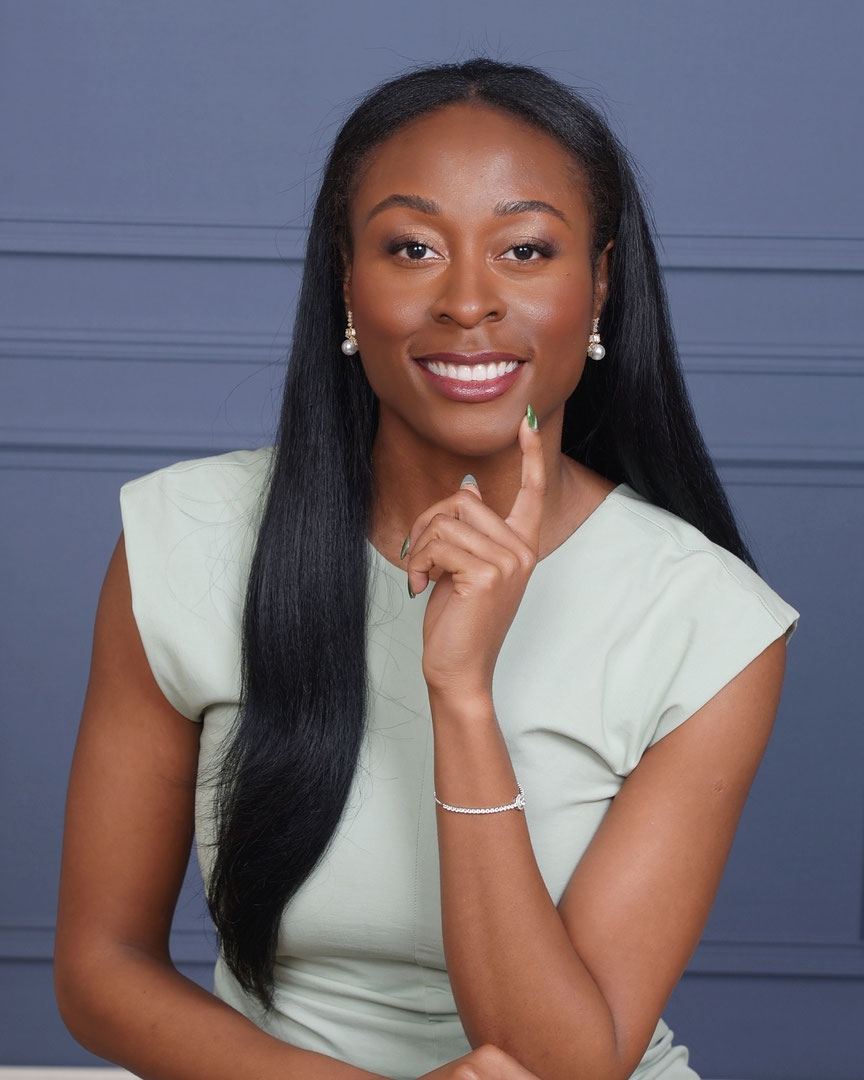
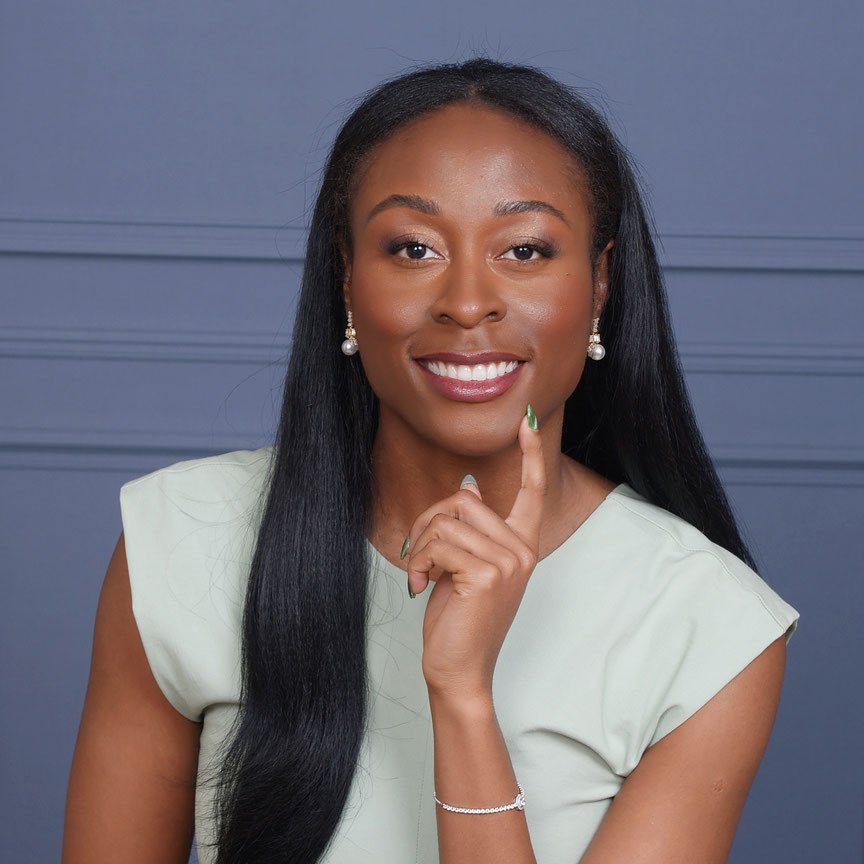
Fix images (#419)
* fix disabled filename

* fix images

* update speaker images

* fix font paths

* fix keynote page

diff --git a/2025/src/assets/scss/base/_font.scss b/2025/src/assets/scss/base/_font.scss
@@ -5,60 +5,60 @@
 @use 'breakpoint' as *;
 
 @font-face {
-  font-family: 'Open Sans';
+  font-style: normal;
+  font-weight: bold;
   src:
     local('Open Sans ExtraBold'),
     local('OpenSans-ExtraBold'),
-    url('/fonts/OpenSans-ExtraBold.woff2') format('woff2'),
-    url('/fonts/OpenSans-ExtraBold.woff') format('woff');
-  font-weight: bold;
-  font-style: normal;
+    url('/2025/fonts/OpenSans-ExtraBold.woff2') format('woff2'),
+    url('/2025/fonts/OpenSans-ExtraBold.woff') format('woff');
+  font-family: 'Open Sans';
   font-display: swap;
 }
 
 @font-face {
-  font-family: 'Open Sans';
+  font-style: normal;
+  font-weight: bold;
   src:
     local('Open Sans Bold'),
     local('OpenSans-Bold'),
-    url('/fonts/OpenSans-Bold.woff2') format('woff2'),
-    url('/fonts/OpenSans-Bold.woff') format('woff');
-  font-weight: bold;
-  font-style: normal;
+    url('/2025/fonts/OpenSans-Bold.woff2') format('woff2'),
+    url('/2025/fonts/OpenSans-Bold.woff') format('woff');
+  font-family: 'Open Sans';
   font-display: swap;
 }
 
 @font-face {
-  font-family: 'Open Sans';
+  font-style: italic;
+  font-weight: normal;
   src:
     local('Open Sans Italic'),
     local('OpenSans-Italic'),
-    url('/fonts/OpenSans-Italic.woff2') format('woff2'),
-    url('/fonts/OpenSans-Italic.woff') format('woff');
-  font-weight: normal;
-  font-style: italic;
+    url('/2025/fonts/OpenSans-Italic.woff2') format('woff2'),
+    url('/2025/fonts/OpenSans-Italic.woff') format('woff');
+  font-family: 'Open Sans';
   font-display: swap;
 }
 
 @font-face {
-  font-family: 'Open Sans';
+  font-style: normal;
+  font-weight: normal;
   src:
     local('Open Sans Regular'),
     local('OpenSans-Regular'),
-    url('/fonts/OpenSans-Regular.woff2') format('woff2'),
-    url('/fonts/OpenSans-Regular.woff') format('woff');
-  font-weight: normal;
-  font-style: normal;
+    url('/2025/fonts/OpenSans-Regular.woff2') format('woff2'),
+    url('/2025/fonts/OpenSans-Regular.woff') format('woff');
+  font-family: 'Open Sans';
   font-display: swap;
 }
 
 body {
-  font-family: var(--font-family-default);
-  text-shadow: rgba(0, 0, 0, 0.01) 0 0 1px;
-  text-rendering: optimizeLegibility;
-  font-synthesis: none;
   font-size: 1rem;
   line-height: 1.5rem;
+  font-family: var(--font-family-default);
+  font-synthesis: none;
+  text-rendering: optimizeLegibility;
+  text-shadow: rgba(0, 0, 0, 0.01) 0 0 1px;
   -webkit-text-size-adjust: 100%;
   -moz-osx-font-smoothing: grayscale;
   -webkit-font-smoothing: antialiased;

diff --git a/scripts/pretalx.py b/scripts/pretalx.py
@@ -248,9 +248,9 @@ class DataProcessor:
         click.echo("Writing talk data JSON...", err=True)
         self._write_json(talk_data, "talks.json", self.json_dir)
 
-        click.echo("Redirects:", err=True)
-        for redirect in redirects:
-            click.echo(redirect, err=True)
+        # click.echo("Redirects:", err=True)
+        # for redirect in redirects:
+        #     click.echo(redirect, err=True)
 
         return talks_by_code
 

diff --git a/2025/src/pages/attend/venue.md b/2025/src/pages/attend/venue.md
@@ -9,6 +9,6 @@ PyOhio 2025 will be held at [The Cleveland State University Student Center](http
 
 ## Conference Spaces
 
-- Masks must be worn in all indoor conference spaces. See [Health & Safety Guidelines](/2025/about/health-and-safety) for details.
+**Masks must be worn in all indoor conference spaces. See [Health & Safety Guidelines](/2025/about/health-and-safety) for details.**
 
 More venue information will be available closer to the event.
